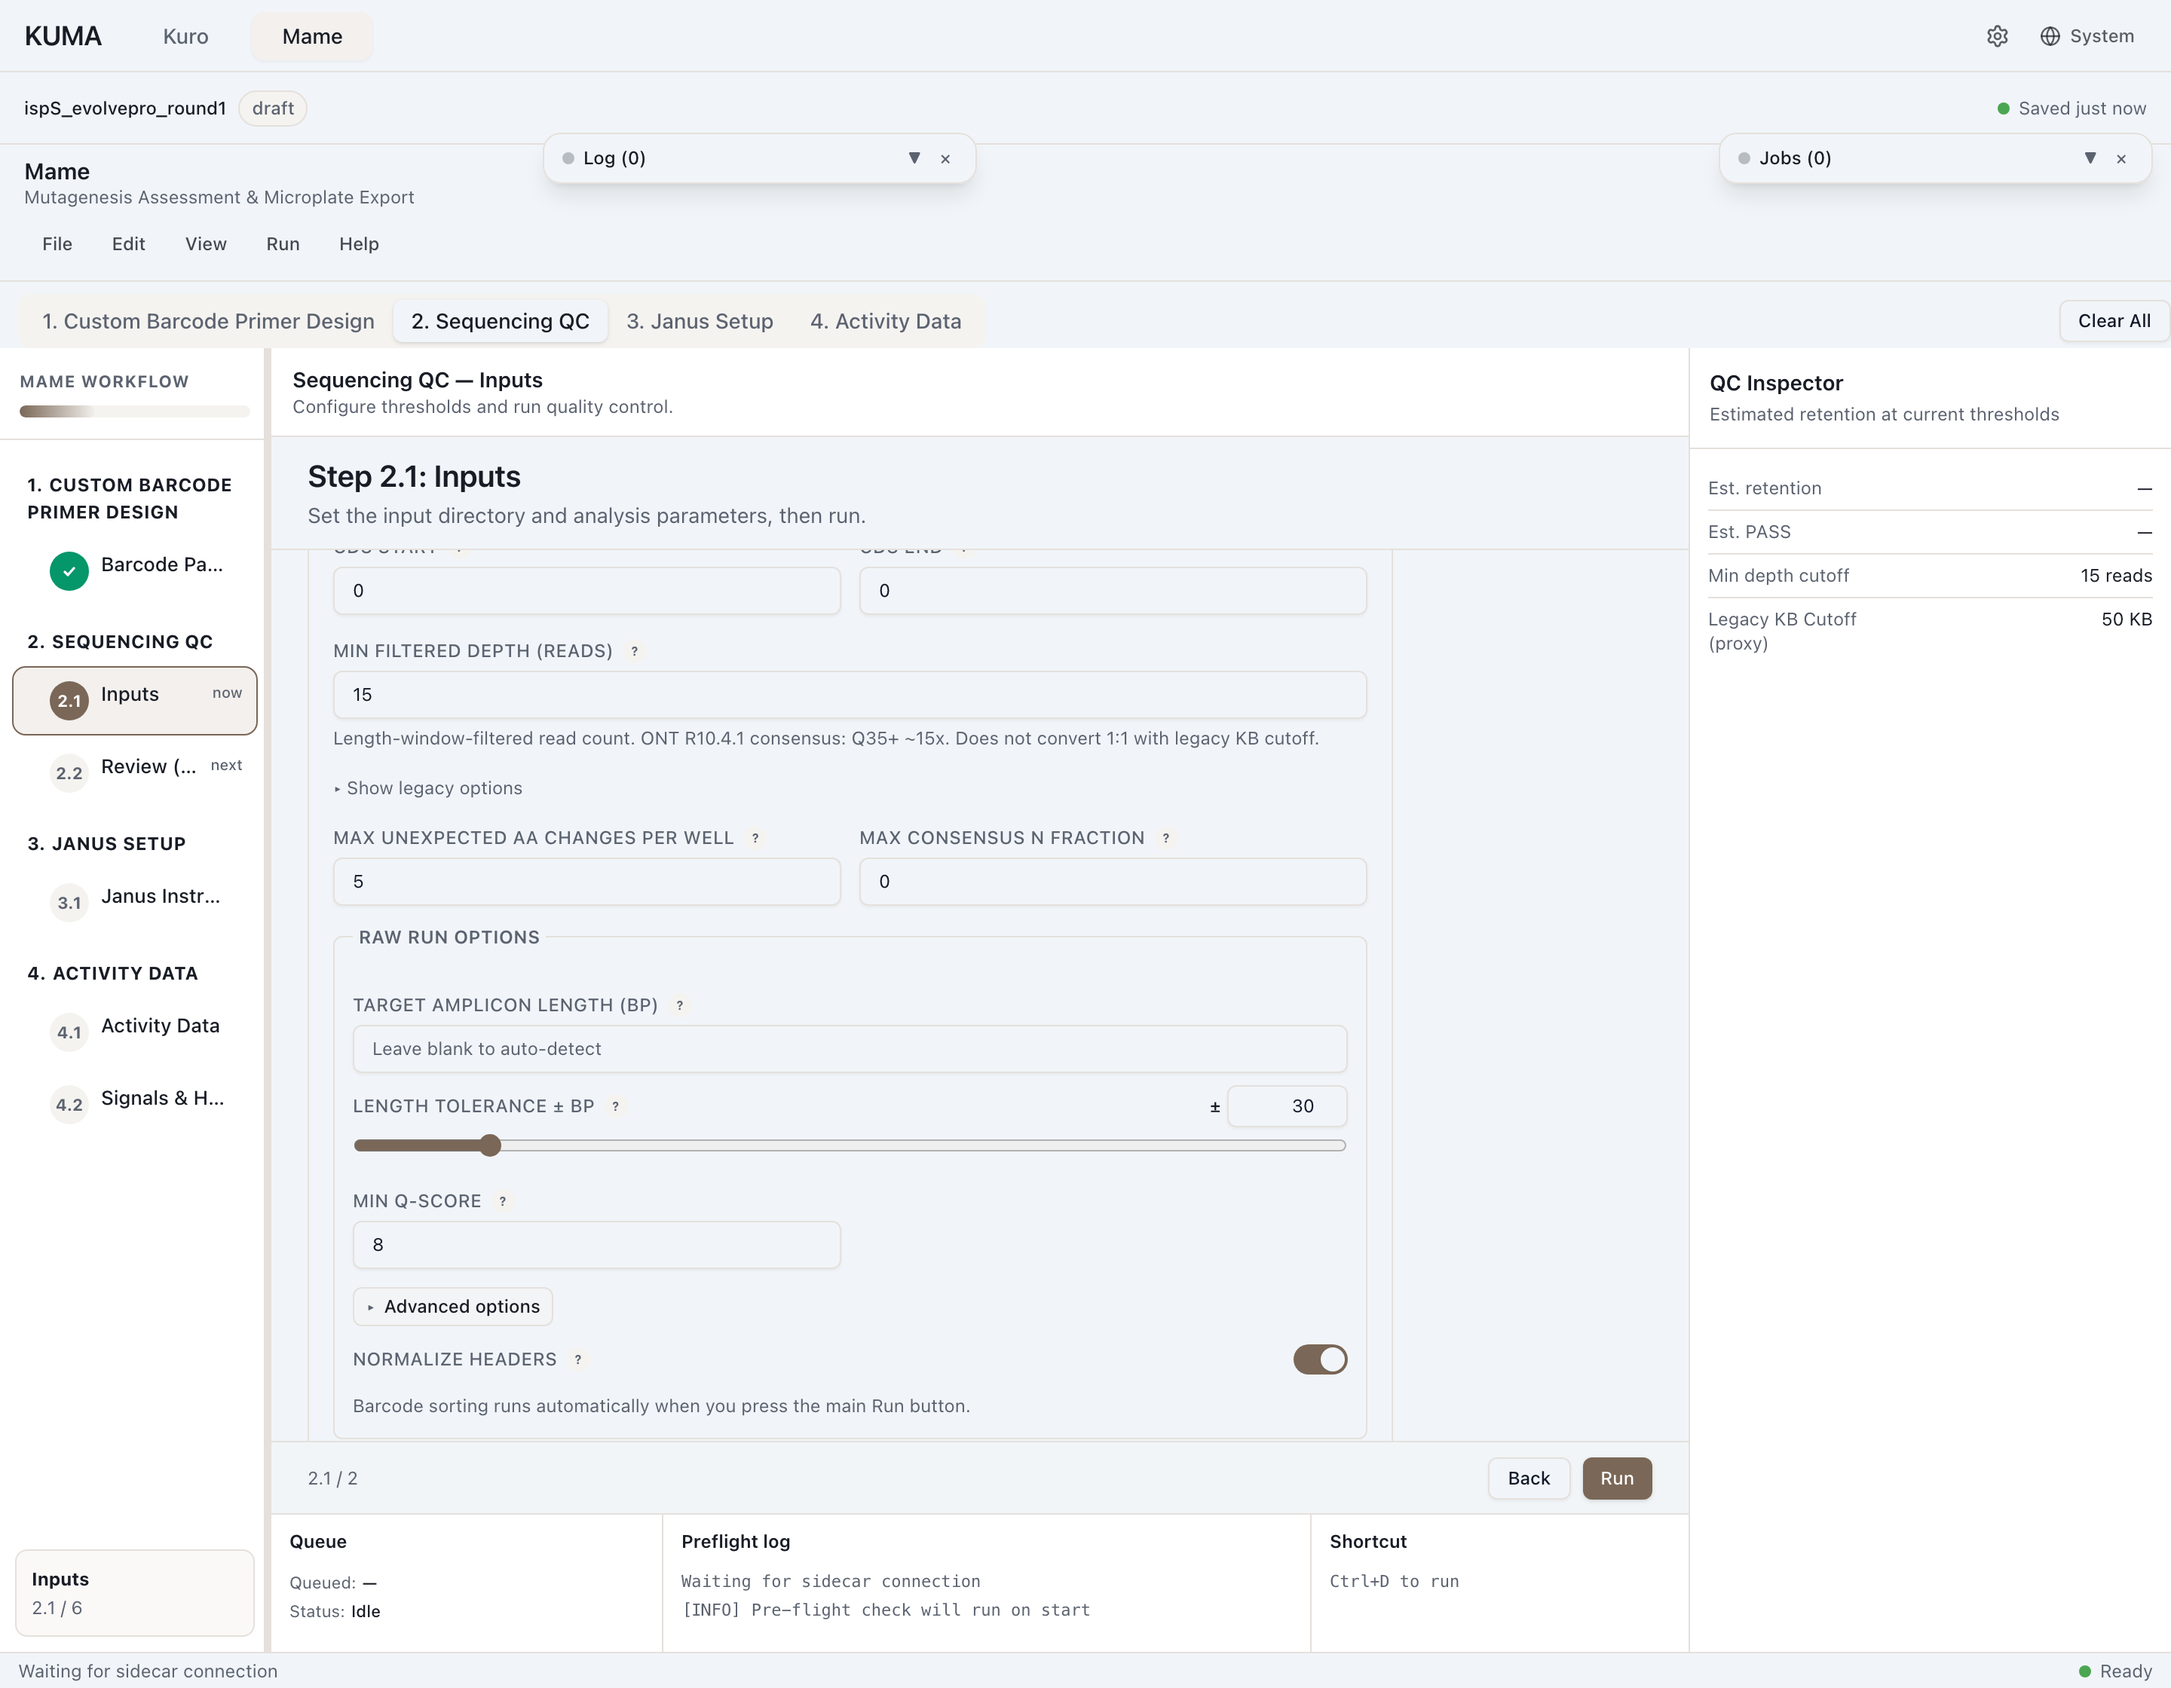
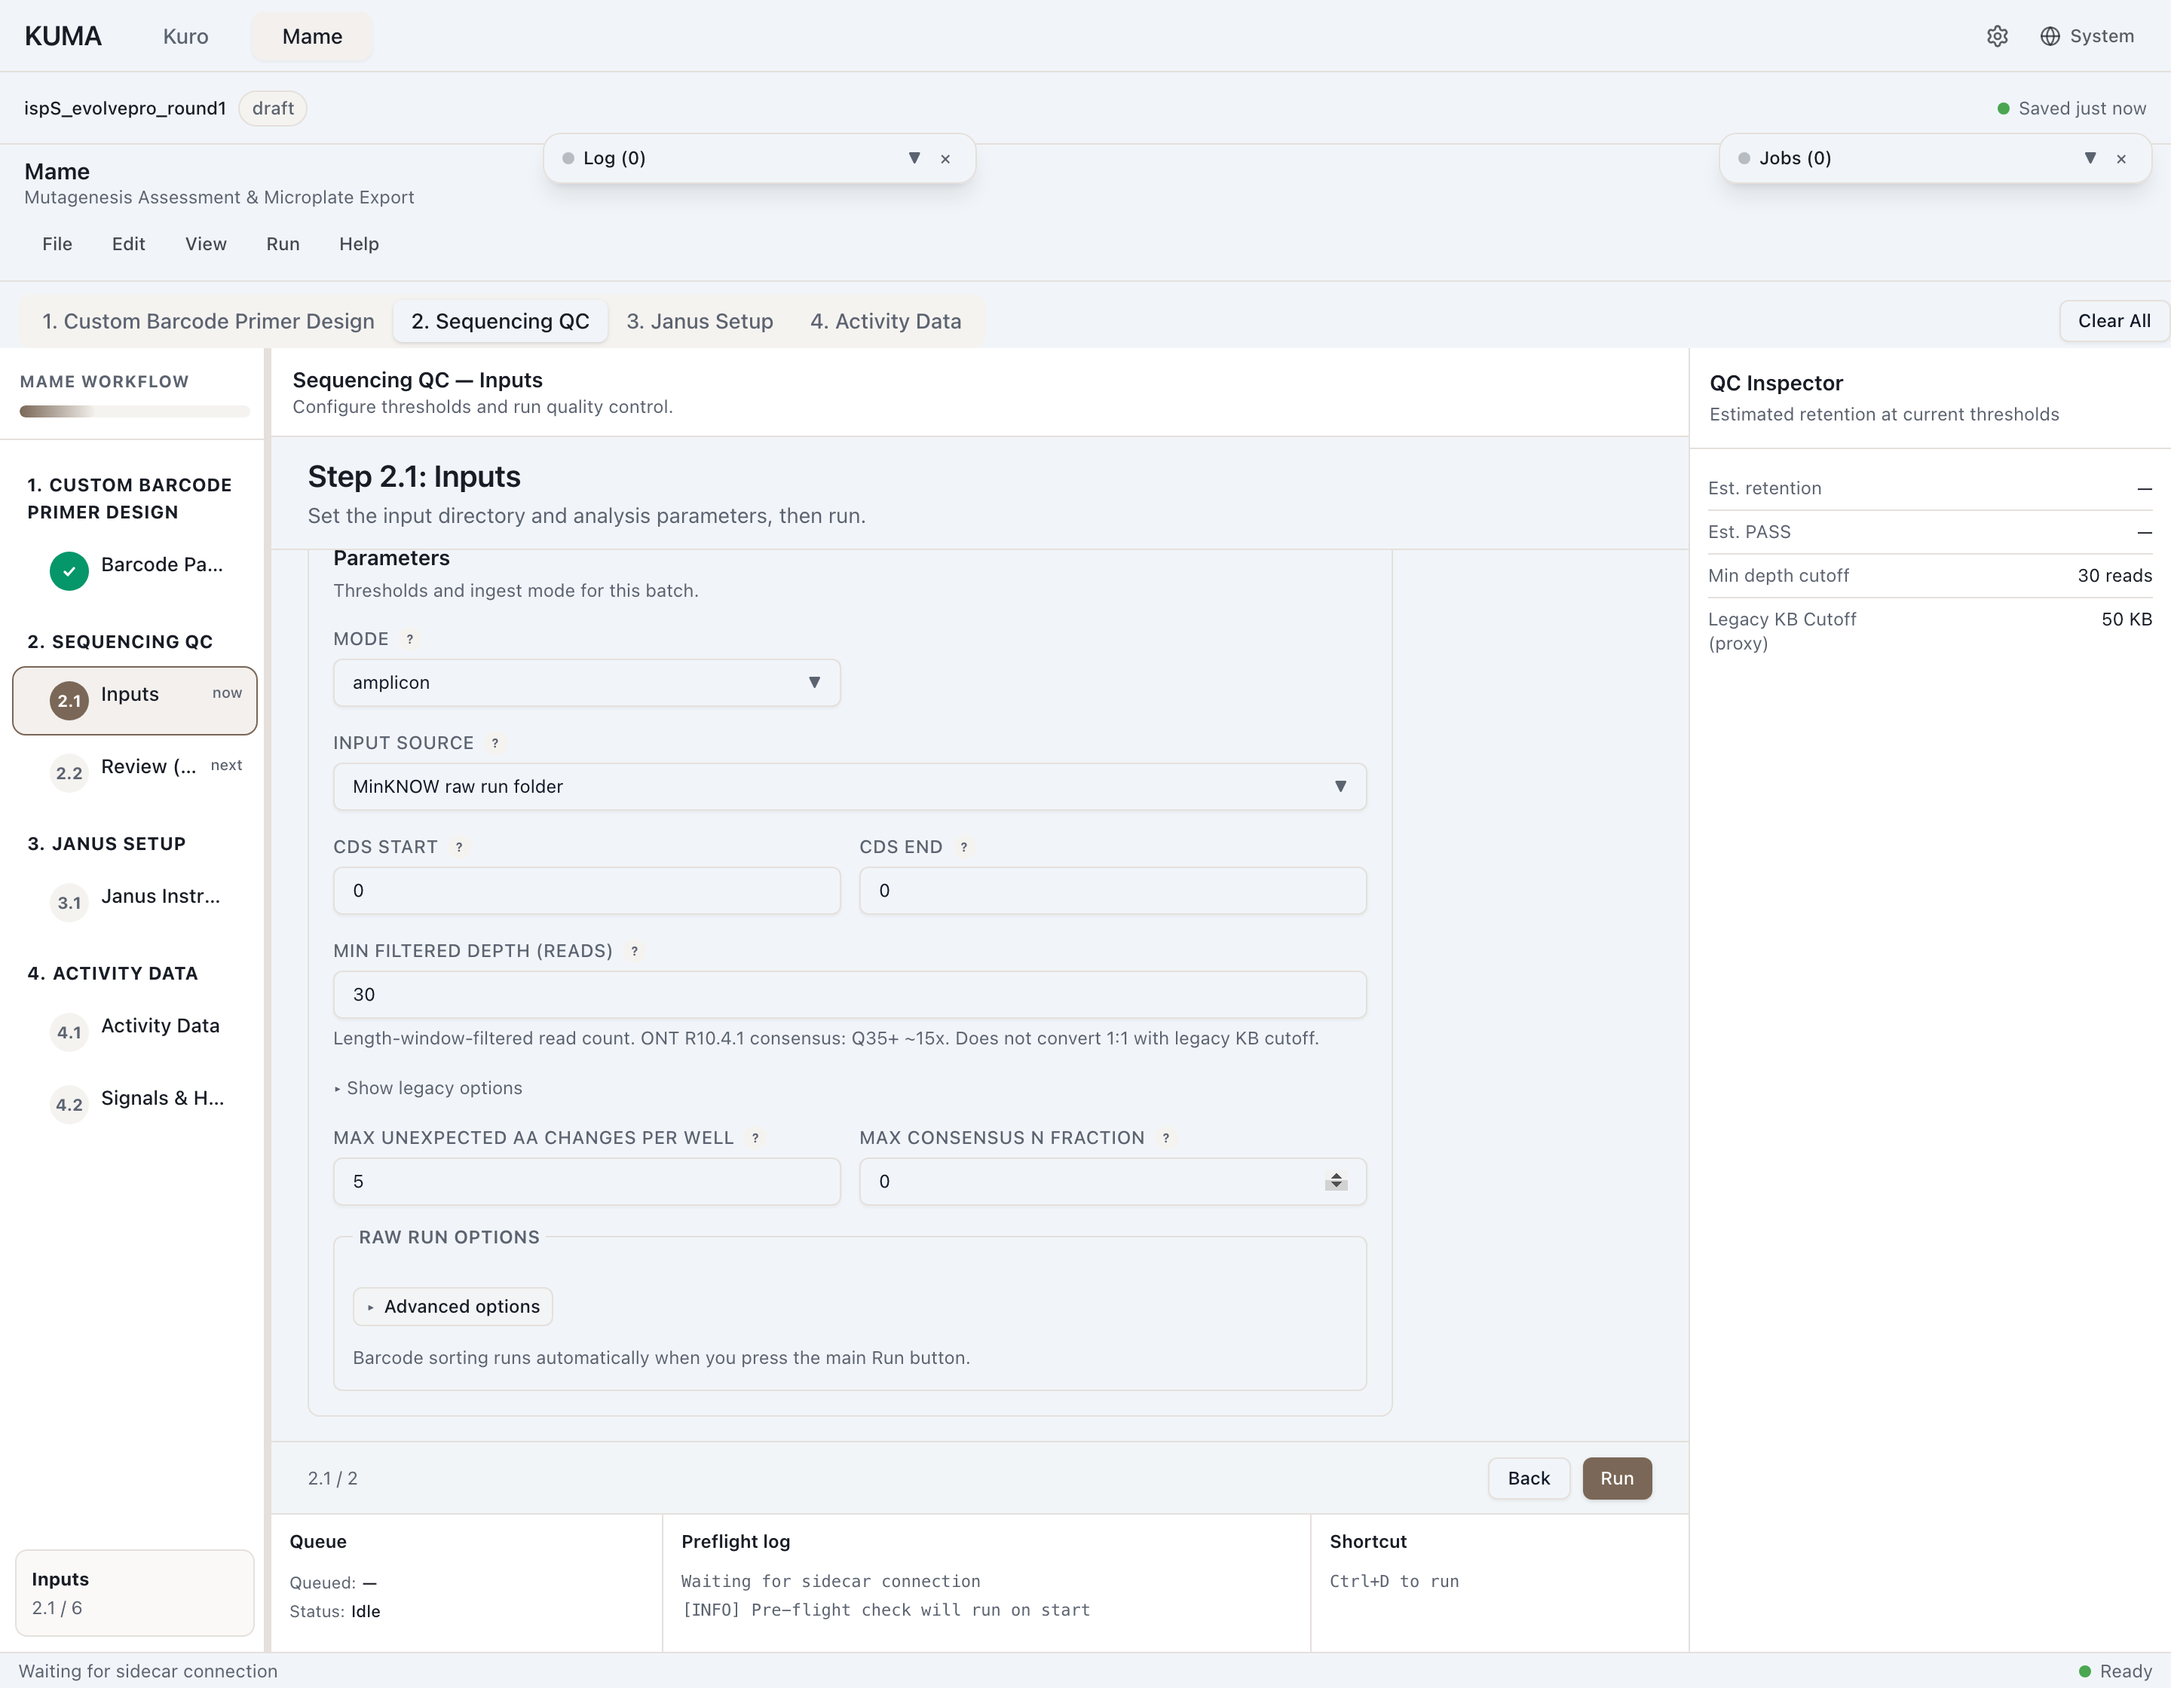
v0.16.39: record the shipped release, recapture the MAME screens, and fix the version-sync hook
Records the v0.16.39 CHANGELOG section and manifests that 19c16d79 landed without, recaptures the 12 MAME screens against the ispS run at this tree, and makes scripts/sync-version.sh executable so a stale post-commit hook copy stops skipping the version bump.

diff --git a/scripts/capture-mame.ts b/scripts/capture-mame.ts
@@ -302,13 +302,13 @@ function buildSteps(bundle: MameBundle): Step[] {
     {
       name: "03-inputs-detail",
       caption:
-        "The rest of the same panel: the construct the reads are aligned to, where output lands, and the draft placement of every variant on the plate.",
+        "The rest of the same panel: where output lands, and the draft placement the plate opens on, 96 wells holding 95 variants and the wild-type control.",
       scrollBy: 700,
     },
     {
       name: "04-parameters",
       caption:
-        "The thresholds this run scores against: 15 filtered reads per well, at most 5 unexpected amino-acid changes, and the raw-run read filter at Q8 with a 30 bp length tolerance.",
+        "The thresholds this run scores against: amplicon mode on a MinKNOW raw run, 30 filtered reads per well, at most 5 unexpected amino-acid changes, and no consensus N tolerated.",
       scrollBy: 1800,
     },
     {

diff --git a/kuma_core/shared/version.py b/kuma_core/shared/version.py
@@ -24,5 +24,5 @@ be parsed by the current one. Bump it by hand, and only when the KURO export
 contract changes in a way that breaks readers.
 """
 
-KUMA_VERSION = "0.16.38"
+KUMA_VERSION = "0.16.39"
 KURO_MODULE_VERSION = "0.1.0"

diff --git a/CHANGELOG.md b/CHANGELOG.md
@@ -1,5 +1,25 @@
 # Changelog
 
+## v0.16.39 (Controls that were never sent, and readouts that filled their own gaps)
+
+A second pass over one bug class: what the operator asked for did not reach the code that acts on it.
+
+Five MAME raw-run controls were serialized only by an action nothing ever called. Setting a Q-score filter or a target amplicon length changed the screen and nothing else. Those controls are gone, together with the orphaned action and the RPC registration behind it. The GC clamp had the mirror-image problem. It gated the preferred match while every candidate still entered a fallback pool ordered by melting temperature alone, so a primer that broke the clamp could still come back from a run that required it.
+
+Two policies decided the answer without saying so. The MAPQ threshold was fixed at 25 while the parameter it belongs to declares a 0 to 60 range, and it is a control now. The EVOLVEpro mismatch threshold that blocks an export and the next-round capacity that moves the advisory recommendation are on screen for the same reason.
+
+Stale primers used to survive the settings that produced them. Changing a melting-temperature target, a GC range, a polymerase or a diversity setting left the previous run on screen and available to export. Design inputs now invalidate through the shared change-sensitive boundary that the analyze side already used.
+
+Missing numbers used to render as confident ones. An absent synthesis score painted a green 100, an absent run-health measurement plotted at zero, and a restored workspace invented an EVOLVEpro score of 0 even though 0.0 is a real fitness value. Each reads as unavailable now. A failed save, a failed export and an unreadable manifest no longer report success, and a corrupt manifest is kept rather than overwritten.
+
+### Highlights
+
+- Five MAME raw-run controls that were never sent are gone, so a Q-score filter or target length no longer looks set while doing nothing.
+- Require GC clamp now binds every candidate, not the preferred match alone, so a primer cannot break the clamp a run asked for.
+- The MAPQ threshold is a control instead of a hardcoded 25, and the EVOLVEpro mismatch limit and next-round capacity are visible too.
+- Changing a Tm target, GC range, polymerase or diversity setting clears the previous primers instead of leaving them exportable.
+- A missing synthesis score reads as unavailable rather than a green 100, and a missing run-health measurement no longer plots as zero.
+
 ## v0.16.38 (The retry that changed its geometry, and the validation that described another run)
 
 A failed full-overlap design could be retried as partial overlap without the operator asking for it. `RetryFailedParams.overlap_mode` had a `partial` default, while every retry omitted the field, so validation accepted the request and the UI continued to say full overlap. The field is required now. Retrying also carried primer-length bounds after their limit was switched off, and the substitution stages then used their own 62/58/42 °C and 40/60 % defaults instead of the selected Tm and GC values. The suggestion code read `tm_no_overlap`, which is not on the wire; it now reads `tm_overlap`, rather than silently suggesting the default target. In full-overlap mode the displayed 17–39 nt range became 19–27 nt after the engine intersected separate forward and reverse bounds; the displayed range is now sent to both axes.
